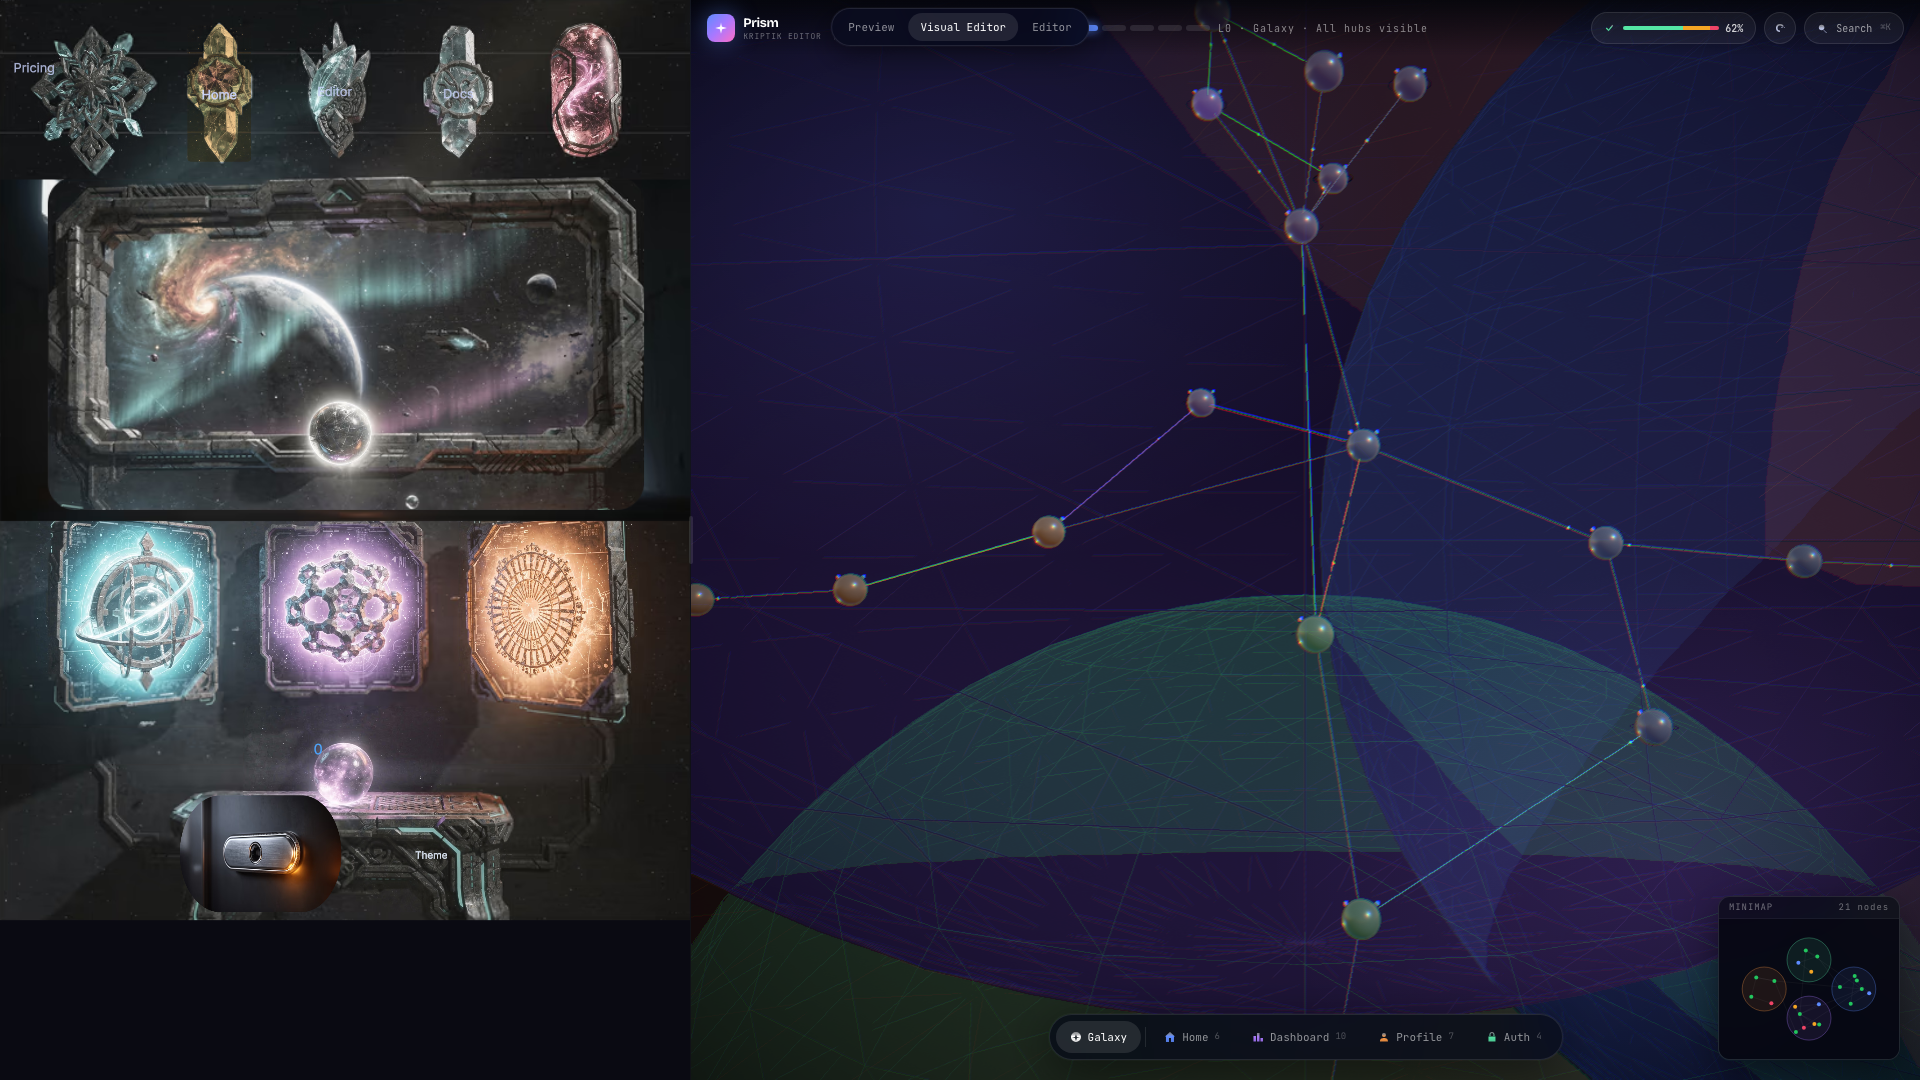
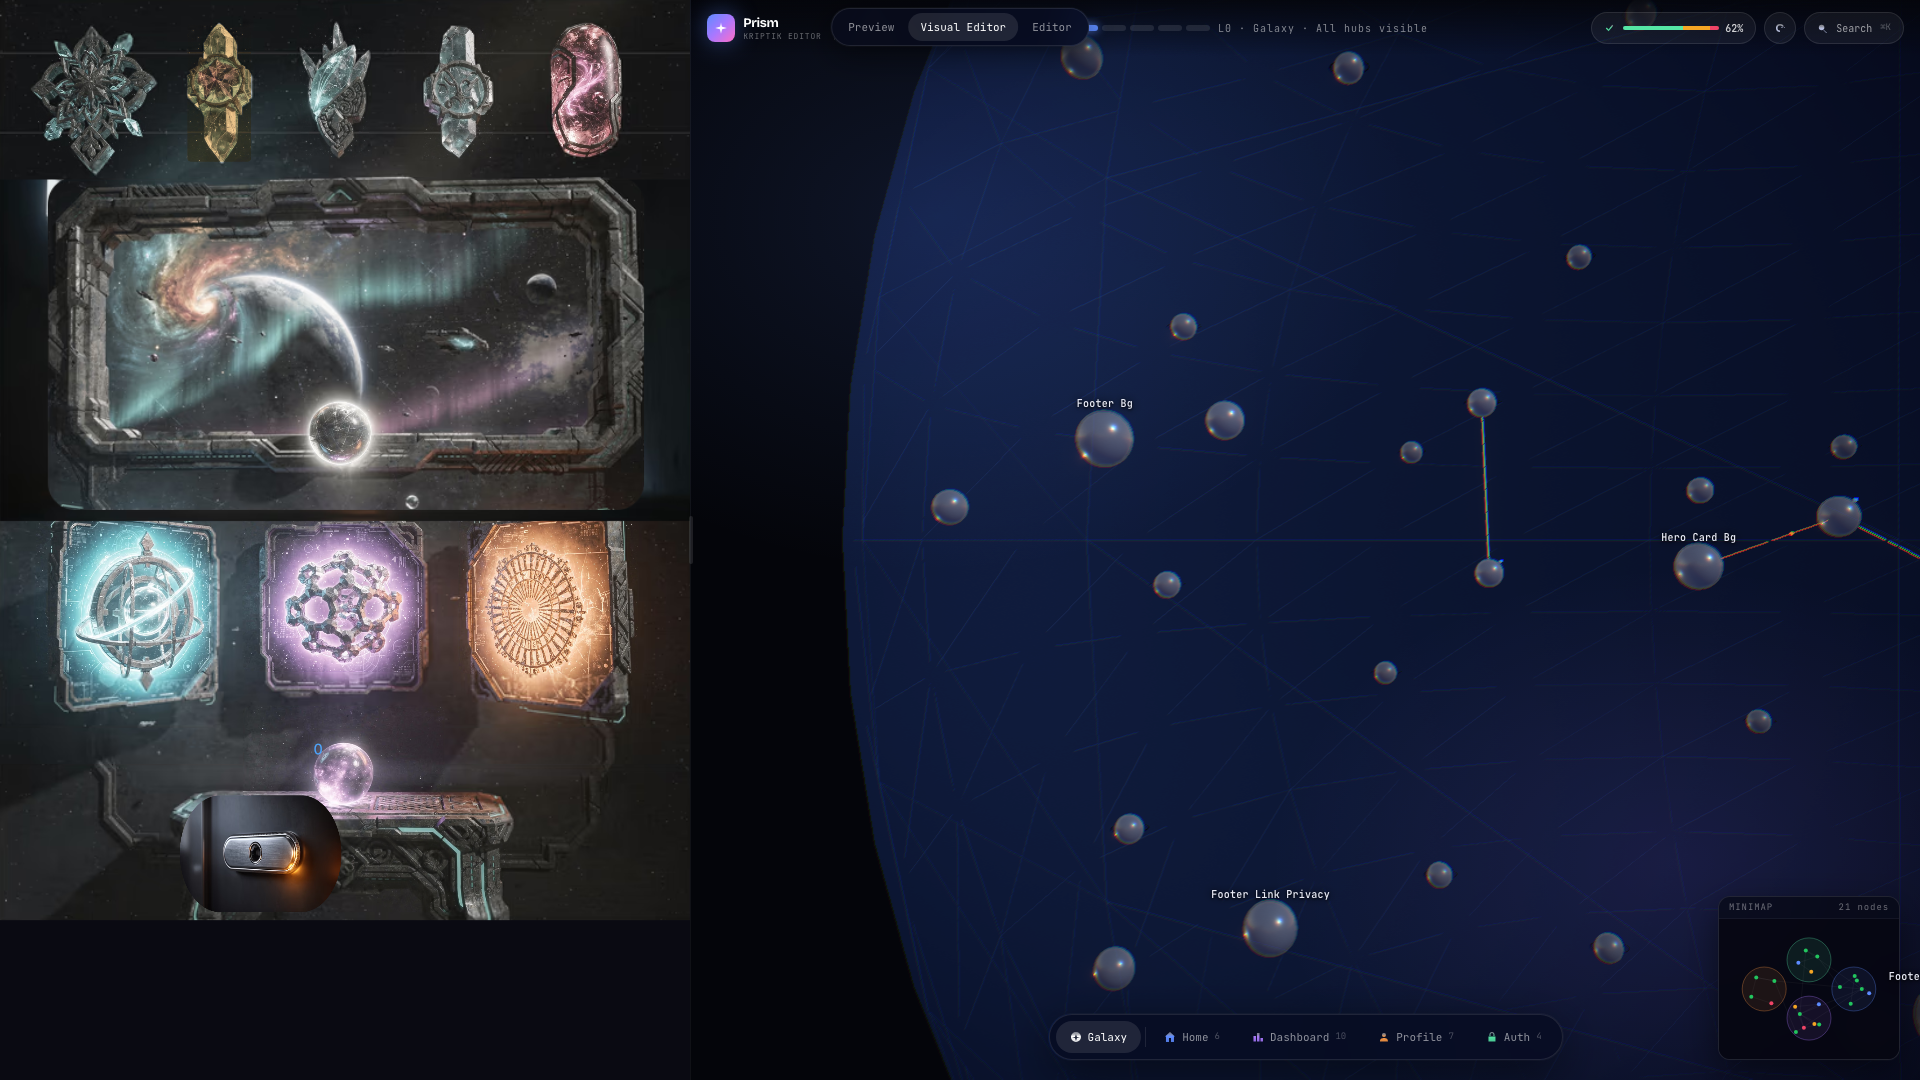
prism-mock: T-EDIT-03 — spec-reviewer MUST FIX + force-graph hardening
- HubInspector HubBehaviorTab: filter dataBindings by source (theme,
  state.*, hub.*) instead of target. Catches the canonical
  {source: "theme", target: "visual.tint"} page-background binding
  plus every state.* binding.
- useForceGraph: filter simLinks down to edges whose source AND target
  resolve to a real node. home-hub.json edges target virtual runtime
  concepts (hub-router, build-panel, signin-modal,
  user-preferences-store) that have no node entry; d3-force-3d's
  forceLink throws "node not found: X" otherwise. Inspector's
  Connections tab still sees the edges through the view-model.

diff --git a/kid-kode-landing/src/components/editor/panels/HubInspector.tsx b/kid-kode-landing/src/components/editor/panels/HubInspector.tsx
@@ -165,10 +165,18 @@ function HubVisualTab({ hub }: { hub: PrismHub }) {
 //   whose dataBindings.target starts with `state.` or `theme.`.
 // ═══════════════════════════════════════════════════════════════════
 function HubBehaviorTab({ nodes }: { nodes: PrismNode[] }) {
+  // Surface bindings whose *source* is a hub-global concern: the page theme,
+  // any `state.*` store key, or a `hub.*`-scoped value. Matching on source
+  // (rather than target) catches the canonical `{source: "theme", target:
+  // "visual.tint"}` page-background binding plus every `state.*` binding,
+  // while excluding purely-local visual ties.
   const bindings = nodes.flatMap((n) => {
     const list = n.intent?.behaviorSpec?.dataBindings ?? [];
     return list
-      .filter((b) => typeof b.target === 'string' && /^(state|theme|hub)\./.test(b.target))
+      .filter((b) => {
+        if (typeof b.source !== 'string') return false;
+        return b.source === 'theme' || b.source.startsWith('state.') || b.source.startsWith('hub.');
+      })
       .map((b) => ({ nodeId: n.nodeId, source: b.source, target: b.target }));
   });
   return (

diff --git a/kid-kode-landing/src/lib/useForceGraph.ts b/kid-kode-landing/src/lib/useForceGraph.ts
@@ -68,9 +68,19 @@ export function useForceGraph(
   }, [nodes, hubs, hubCenters, resetSignal]);
 
   const simLinks = useMemo<SimLink[]>(() => {
-    return edges.map((e) => ({ source: e.source, target: e.target, type: e.type, id: e.id }));
+    // home-hub.json edges can target *virtual* nodes (hub-router, build-panel,
+    // signin-modal, user-preferences-store) that exist as runtime concepts but
+    // are not in `nodes`. d3-force-3d's forceLink throws "node not found: X"
+    // when an unresolved id appears in either source or target, which crashes
+    // the editor pane. Drop unresolvable links from the simulation while
+    // leaving the canonical edges intact in the source store (Inspector's
+    // Connections tab still sees them through the view-model).
+    const ids = new Set(nodes.map((n) => n.id));
+    return edges
+      .filter((e) => ids.has(e.source) && ids.has(e.target))
+      .map((e) => ({ source: e.source, target: e.target, type: e.type, id: e.id }));
     // eslint-disable-next-line react-hooks/exhaustive-deps
-  }, [edges, resetSignal]);
+  }, [edges, nodes, resetSignal]);
 
   const simRef = useRef<any>(null);
 
